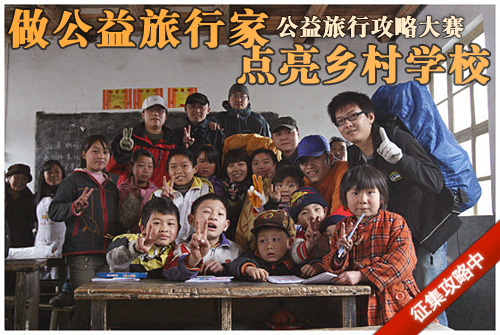
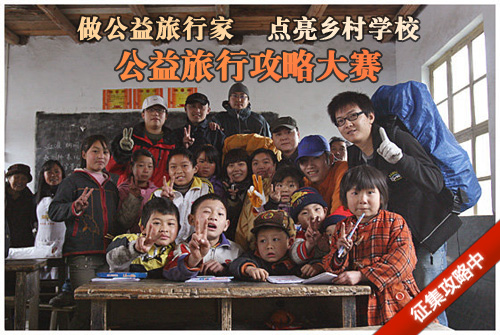
修改文案

Changed region(s): [[0.0, 0.0, 0.99, 0.2687]]

diff --git a/public/stylesheets/lightenschool.css b/public/stylesheets/lightenschool.css
@@ -13,7 +13,7 @@ font: bold 1.5em Arial, Helvetica, sans-serif;
 .tableList{margin-bottom:5px;}
 
 .boxouter{margin-top:15px;}
-.boxinter{padding:15px;}
+.boxinter{padding:13px;}
 .boxinter p{font-size:13px;line-height:20px;margin-bottom:10px;}
 .boxinter li{font-size:13px;list-style:none;}
 
